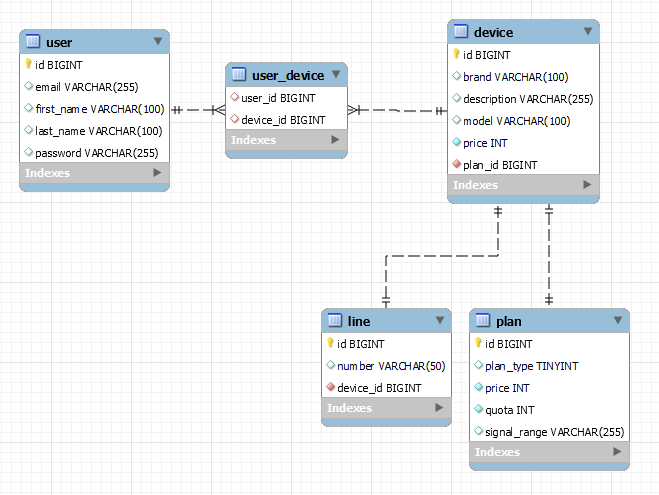
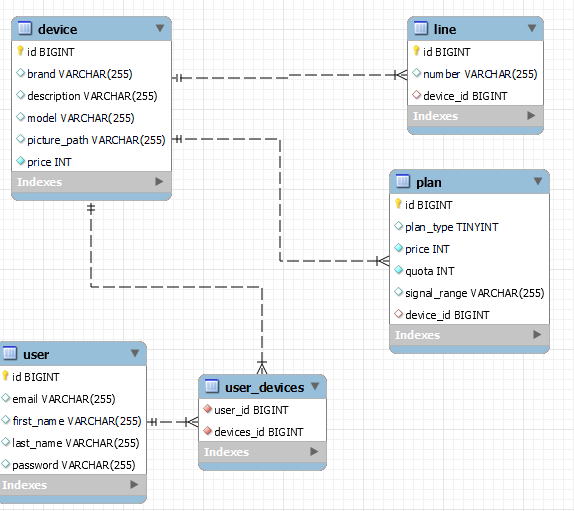
Updated table relationships...again
Table field names stay the same.  i changed the tables so that one device has one line that may be null and one device has one plan that may be null.  a user can still have many devices.

diff --git a/src/main/java/alpha/com/starmobile/configuration/SecurityConfig.java b/src/main/java/alpha/com/starmobile/configuration/SecurityConfig.java
@@ -26,7 +26,9 @@ public class SecurityConfig {
 
 	@Bean
 	public SecurityFilterChain securityFilterChain(HttpSecurity http) throws Exception {
-		http.authorizeHttpRequests((auth) -> auth.anyRequest().authenticated())
+		http.authorizeHttpRequests((auth) -> auth.requestMatchers("/auth/**").permitAll()
+		// .anyRequest().authenticated()
+		)
 				.httpBasic(Customizer.withDefaults()); // Use this approach for basic auth
 		return http.build();
 	}

diff --git a/src/main/java/alpha/com/starmobile/models/Device.java b/src/main/java/alpha/com/starmobile/models/Device.java
@@ -19,7 +19,9 @@ public class Device {
     private String description;
     private int price;
 
-    @OneToOne
+    @OneToOne(mappedBy = "device", cascade = CascadeType.ALL, orphanRemoval = true)
     private Line line;
 
+    @OneToOne(mappedBy = "device", cascade = CascadeType.ALL, orphanRemoval = true)
+    private Plan plan;
 }

diff --git a/src/main/java/alpha/com/starmobile/models/Line.java b/src/main/java/alpha/com/starmobile/models/Line.java
@@ -16,5 +16,6 @@ public class Line {
     private String number;
 
     @OneToOne
+    @JoinColumn(name = "device_id")
     private Device device;
 }
